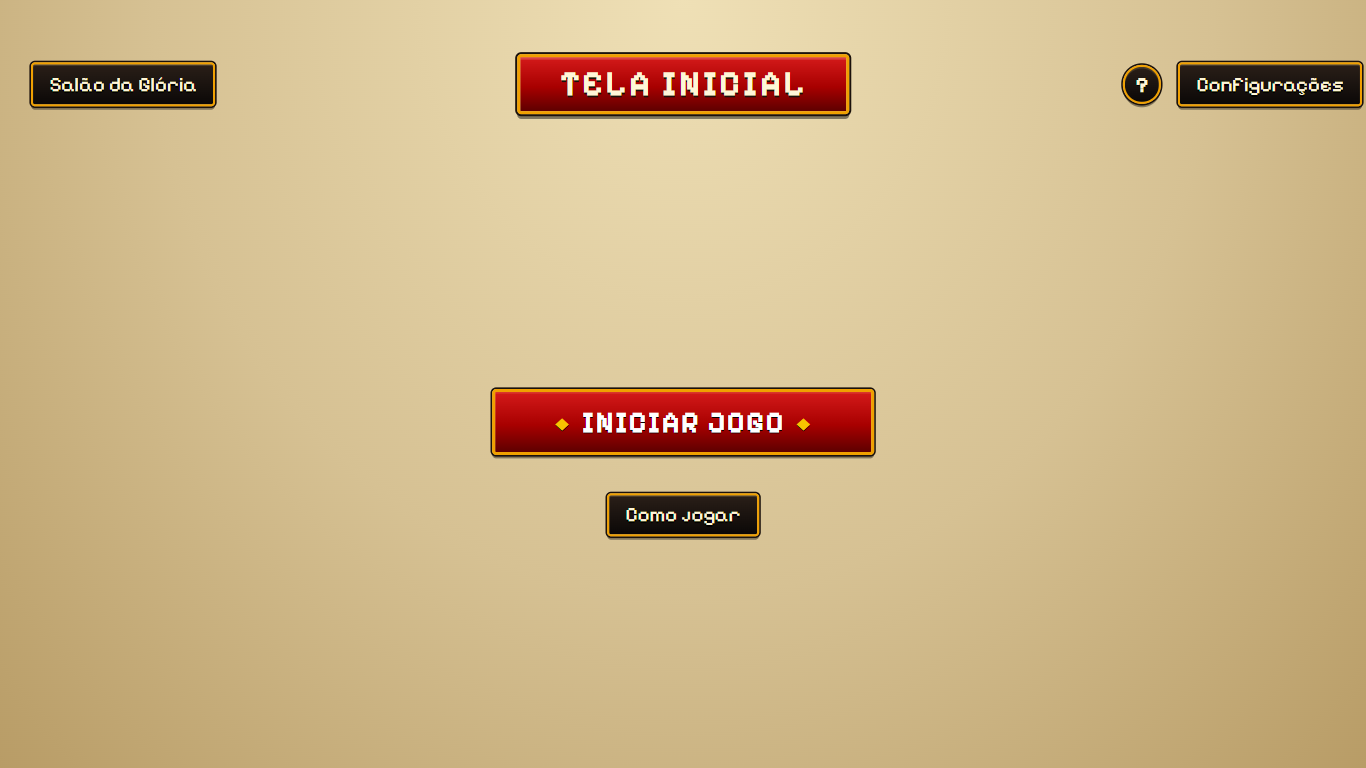
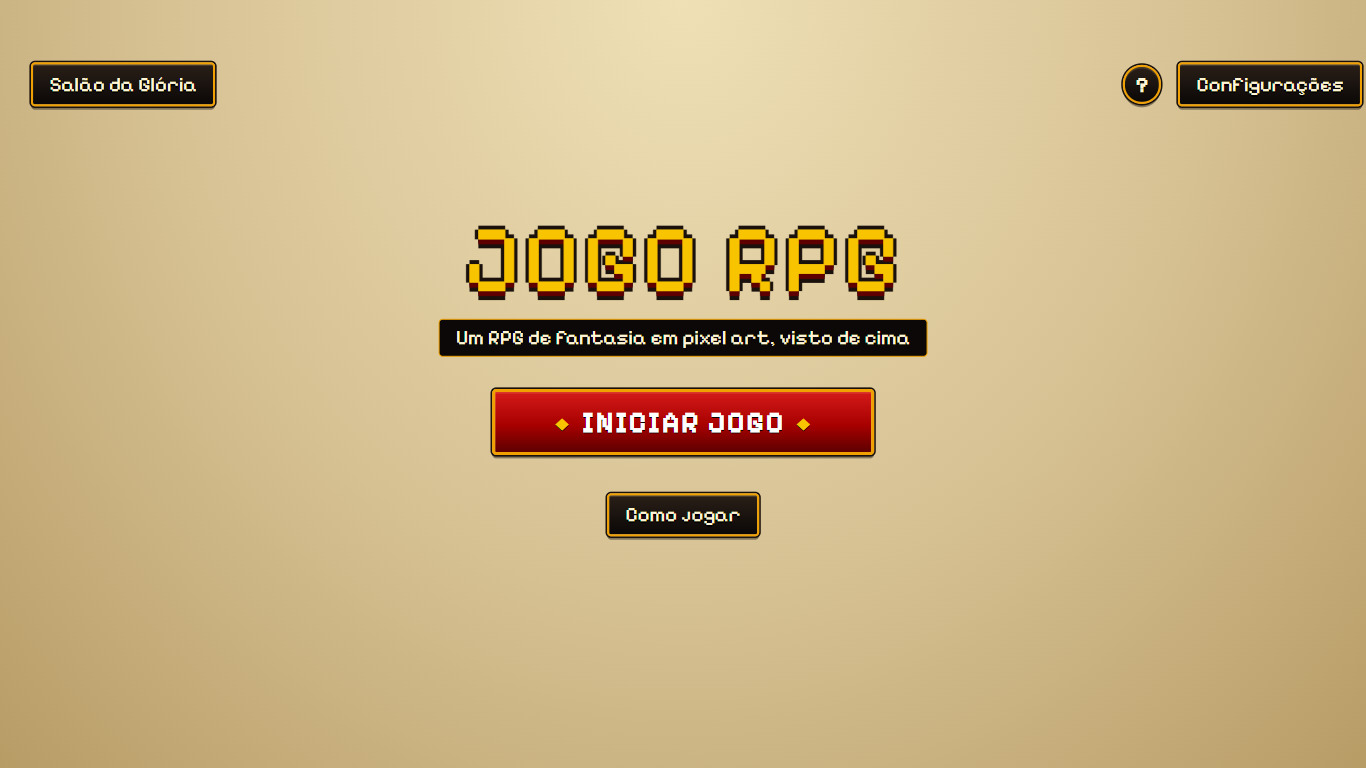
Parte 13b e 13c: o nome do jogo num lugar só (dados/jogo.js) na Tela inicial, no título da aba e no carregamento; README na raiz

Changed region(s): [[0.3075, 0.2812, 0.6764, 0.4688], [0.369, 0.0625, 0.6457, 0.1562]]

diff --git a/programacao/index.html b/programacao/index.html
@@ -4,7 +4,7 @@
     <meta charset="UTF-8" />
     <link rel="icon" type="image/svg+xml" href="/favicon.svg" />
     <meta name="viewport" content="width=device-width, initial-scale=1.0" />
-    <title>Jogo RPG</title>
+    <title>%NOME_DO_JOGO%</title>
     <!-- Tela de carregamento (ajustes de 14/10/2026): aparece na hora, antes do React, e some quando o jogo monta (o React
          troca o conteúdo do #root). Se demorar demais ou o código não chegar, mostra o que houve e "Tentar de novo". -->
     <style>
@@ -92,7 +92,7 @@
     <div id="root">
       <div class="carregando-o-site" id="carregando-o-site" role="status" aria-live="polite">
         <div>
-          <h1>Jogo RPG</h1>
+          <h1>%NOME_DO_JOGO%</h1>
           <div class="barra"><span></span></div>
           <p id="carregando-texto">Carregando o jogo...</p>
         </div>
@@ -105,7 +105,7 @@
           var tela = document.getElementById('carregando-o-site')
           if (!tela) return
           tela.innerHTML =
-            '<div><h1>Jogo RPG</h1><p>' +
+            '<div><h1>%NOME_DO_JOGO%</h1><p>' +
             texto +
             '</p><button type="button" onclick="location.reload()">Tentar de novo</button></div>'
         }

diff --git a/programacao/src/telas/acesso/TelaInicial.jsx b/programacao/src/telas/acesso/TelaInicial.jsx
@@ -1,6 +1,8 @@
 import Botao from '../../componentes/Botao.jsx'
 import Tela from '../../componentes/Tela.jsx'
+import { estiloPosicao } from '../../componentes/posicao.js'
 import { pedirTelaCheia } from '../../componentes/telaCheia.js'
+import { jogo } from '../../dados/jogo.js'
 import { posicoes } from '../../dados/posicoes.js'
 import { useJogo } from '../../estado/contexto.js'
 
@@ -10,7 +12,14 @@ export default function TelaInicial() {
   const { estado, acoes } = useJogo()
 
   return (
-    <Tela>
+    // O nome do jogo grande no lugar do título da tela (Parte 13: o professor pede a Tela inicial com o nome)
+    <Tela tituloOculto>
+      <div className="nome-do-jogo posicionado" style={estiloPosicao(pos.nome)}>
+        <p className="nome-do-jogo-titulo" role="heading" aria-level="2">
+          {jogo.nome}
+        </p>
+        <p className="nome-do-jogo-frase">{jogo.frase}</p>
+      </div>
       {/* A tela cheia entra neste clique (ajustes de 14/10; o navegador só deixa no momento de um clique) */}
       <Botao
         em={pos.iniciarJogo}

diff --git a/programacao/src/dados/jogo.test.js b/programacao/src/dados/jogo.test.js
@@ -1,0 +1,24 @@
+import { readFileSync } from 'node:fs'
+import { describe, expect, it } from 'vitest'
+import { jogo } from './jogo.js'
+
+const ler = (caminho) => readFileSync(new URL(caminho, import.meta.url), 'utf8')
+
+describe('o nome do jogo num lugar só (Parte 13)', () => {
+  it('o nome existe e é curto o bastante para a Tela inicial', () => {
+    expect(jogo.nome.length).toBeGreaterThan(0)
+    expect(jogo.nome.length).toBeLessThanOrEqual(20)
+  })
+
+  it('o index.html (título da aba e tela de carregamento) usa o nome de dados/jogo.js, sem o nome escrito à mão', () => {
+    const html = ler('../../index.html')
+    expect(html.match(/%NOME_DO_JOGO%/g)?.length).toBe(3)
+    expect(html).toContain('<title>%NOME_DO_JOGO%</title>')
+    expect(html).not.toContain(jogo.nome)
+    expect(ler('../../vite.config.js')).toContain("replaceAll('%NOME_DO_JOGO%', jogo.nome)")
+  })
+
+  it('a Tela inicial mostra o nome de dados/jogo.js', () => {
+    expect(ler('../telas/acesso/TelaInicial.jsx')).toContain('{jogo.nome}')
+  })
+})

diff --git a/programacao/src/estilo/identidade.css b/programacao/src/estilo/identidade.css
@@ -409,3 +409,38 @@ body {
 .carregando-caixa .botao {
   color: var(--texto-da-placa);
 }
+
+/* ---------- O nome do jogo na Tela inicial (Parte 13; o nome vem de dados/jogo.js) ---------- */
+.nome-do-jogo {
+  display: flex;
+  flex-direction: column;
+  align-items: center;
+  gap: 0.8cqw;
+  text-align: center;
+  pointer-events: none;
+}
+.nome-do-jogo-titulo {
+  margin: 0;
+  font-size: 7cqw;
+  line-height: 1;
+  letter-spacing: 0.25cqw;
+  text-transform: uppercase;
+  color: var(--ouro-claro);
+  text-shadow:
+    0 0.35cqw 0 var(--vermelho-escuro),
+    0.25cqw 0 0 var(--contorno),
+    -0.25cqw 0 0 var(--contorno),
+    0 0.25cqw 0 var(--contorno),
+    0 -0.25cqw 0 var(--contorno),
+    0 0.7cqw 0 var(--contorno);
+  white-space: nowrap;
+}
+.nome-do-jogo-frase {
+  margin: 0;
+  font-size: 1.5cqw;
+  color: var(--texto-da-placa);
+  background: var(--placa);
+  border: 0.14cqw solid var(--ouro);
+  border-radius: 0.3cqw;
+  padding: 0.4cqw 1.2cqw;
+}

diff --git a/programacao/vite.config.js b/programacao/vite.config.js
@@ -1,9 +1,11 @@
 import react from '@vitejs/plugin-react'
 import { defineConfig } from 'vite'
+import { jogo } from './src/dados/jogo.js'
 
 // https://vite.dev/config/
 export default defineConfig({
-  plugins: [react()],
+  // o nome do jogo (src/dados/jogo.js) no título da aba e na tela de carregamento do index.html (Parte 13)
+  plugins: [react(), { name: 'nome-do-jogo', transformIndexHtml: (html) => html.replaceAll('%NOME_DO_JOGO%', jogo.nome) }],
   build: {
     // O Phaser sozinho tem cerca de 1,4 MB e só carrega ao abrir a Partida (import dinâmico).
     // O limite fica um pouco acima disso para o aviso voltar se algo crescer demais.

diff --git a/programacao/src/dados/jogo.js b/programacao/src/dados/jogo.js
@@ -1,0 +1,8 @@
+// O NOME DO JOGO (Parte 13, 27/11/2026): o único lugar com o nome. O grupo ainda não decidiu: até lá, "Jogo RPG".
+// Para trocar, mude só "nome" (e a frase, se quiser). Ele aparece na Tela inicial (telas/acesso/TelaInicial.jsx), no
+// título da aba e na tela de carregamento do site (o index.html usa %NOME_DO_JOGO%, trocado pelo vite.config.js ao
+// montar o jogo). O README.md da raiz e o Conceito são texto: trocar lá também (o relatório da Parte 13 diz onde).
+export const jogo = {
+  nome: 'Jogo RPG',
+  frase: 'Um RPG de fantasia em pixel art, visto de cima',
+}

diff --git a/programacao/src/dados/posicoes.js b/programacao/src/dados/posicoes.js
@@ -20,6 +20,7 @@ export const posicoes = {
 
   // ---------- Acesso ----------
   telaInicial: {
+    nome: { x: 50, y: 37 }, // o nome do jogo, grande (Parte 13: dados/jogo.js), abaixo da dica da primeira visita
     iniciarJogo: { x: 50, y: 55, grande: true }, // o botão principal (vermelho e dourado, como o JOGAR)
     comoJogar: { x: 50, y: 67 },
   },

diff --git a/README.md b/README.md
@@ -1,0 +1,95 @@
+# Jogo RPG
+
+**Um RPG de fantasia em pixel art, visto de cima, para jogar no navegador do computador.** Você monta um grupo de até 5 heróis (Guerreiro, Mago, Tanque, Sacerdote e Arqueiro), controla o Líder, explora a Floresta, derrota monstros e o chefe Ogro e volta ao Reino com o ouro para comprar, forjar e evoluir o grupo.
+
+> O nome do jogo ainda vai ser escolhido pelo grupo; até lá, "Jogo RPG".
+
+**▶ Jogar agora: [jogo-rpg-six.vercel.app](https://jogo-rpg-six.vercel.app)** (computador, teclado e mouse)
+
+| A partida na Floresta | O Reino |
+|---|---|
+| ![A partida: o grupo de 5 heróis lutando com a matilha do Lobo Alfa na Floresta](documentacao/prototipos/UC32_partida_com_mobs.png) | ![O Reino com a Guilda, o Mercado, a Forja, a Mochila, as Árvores e o botão Jogar](documentacao/prototipos/UC26_reino.png) |
+
+## Como jogar
+
+- **Convidado ou conta:** na Tela inicial, clique em *Iniciar jogo*. Como convidado, o progresso fica só neste navegador. Com conta (e-mail, senha e apelido, com confirmação do e-mail), o progresso fica salvo no servidor e você aparece no ranking (Salão da Glória). A conta criada por um convidado leva o progresso dele.
+- **O ciclo:** Reino → *Jogar* → Mapa → Floresta → Caravana (onde começar) → Preparação (Líder e mochila) → partida → Resumo (ouro, XP, itens) → Reino.
+
+| Tecla | O que faz |
+|---|---|
+| W A S D | Andar |
+| Mouse e clique | Mirar e atacar (o Arqueiro segura o clique para puxar o arco) |
+| Espaço | Esquivar (só o Líder) |
+| 1, 2, 3 | Habilidades |
+| E | Pegar o item do chão; na mochila, usar no Líder (R: no aliado que mais precisa) |
+| Tab | Abrir a mochila (o jogo não pausa) |
+| Q | Voltar ao Reino (15 s fora de combate) |
+| F | Fugir (5 s, mesmo em combate, pagando parte do ouro) |
+| Esc | Fechar a janela; na partida, pausar |
+| M | Ligar e desligar o som |
+
+A Tela inicial tem o *Como jogar* completo, e toda tela tem um **?** que explica o que fazer nela.
+
+## Equipe e disciplinas
+
+- **Equipe:** Pablo Detoni, Lucas Garcia e Uener Peres.
+- **Disciplinas:** Análise e Projeto de Sistemas (TI23L) e Desenvolvimento Web 2.
+- **UTFPR**, câmpus Campo Mourão, 2026.
+
+## Tecnologias
+
+| Parte | Tecnologia |
+|---|---|
+| Interface (telas, menus, HUD) | [React](https://react.dev) com [Vite](https://vite.dev) |
+| A partida (o mapa, os heróis e os monstros) | [Phaser 4](https://phaser.io), desenhado no canvas |
+| Contas, saves na nuvem e ranking | [Supabase](https://supabase.com) (Postgres com RLS) |
+| Site publicado | [Vercel](https://vercel.com) |
+| Música e efeitos | Web Audio API do navegador (feitos em código, sem arquivos) |
+| Testes | [Vitest](https://vitest.dev) (regras do jogo) e roteiros que jogam num navegador escondido |
+
+## Onde está cada entrega
+
+| Entrega | Onde |
+|---|---|
+| Conceito do jogo (PDF) | [documentacao/ideias/01_Conceito_do_Jogo.pdf](documentacao/ideias/01_Conceito_do_Jogo.pdf) |
+| Diagrama de casos de uso | [documentacao/diagramas/02_Diagrama_Casos_de_Uso.png](documentacao/diagramas/02_Diagrama_Casos_de_Uso.png) |
+| Diagramas de atividades | [Acesso](documentacao/diagramas/03_Diagrama_Atividades_Acesso.png), [Partida](documentacao/diagramas/04_Diagrama_Atividades_Partida.png), [Guilda](documentacao/diagramas/05_Diagrama_Atividades_Guilda.png) e [Caravana](documentacao/diagramas/06_Diagrama_Atividades_Caravana.png) |
+| Protótipos (todas as telas, tema claro e escuro) | [documentacao/prototipos/](documentacao/prototipos/README.md) |
+| Requisitos funcionais e não funcionais | [documentacao/docAdicional/08_Requisitos.md](documentacao/docAdicional/08_Requisitos.md) |
+| Descrição dos casos de uso | [documentacao/docAdicional/06_Descricao_dos_Casos_de_Uso.md](documentacao/docAdicional/06_Descricao_dos_Casos_de_Uso.md) |
+| Histórias de usuário | [documentacao/docAdicional/07_Historias_de_Usuario.md](documentacao/docAdicional/07_Historias_de_Usuario.md) |
+| Matriz de rastreabilidade | [documentacao/docAdicional/09_Matriz_de_Rastreabilidade.md](documentacao/docAdicional/09_Matriz_de_Rastreabilidade.md) |
+| Toda a documentação (índice) | [documentacao/README.md](documentacao/README.md) |
+| O código | [programacao/](programacao/) (como ele está organizado: [Arquitetura do código](documentacao/Arquitetura_do_Codigo.md)) |
+
+## Rodar no computador
+
+Precisa do [Node.js](https://nodejs.org) **22.12 ou mais novo**.
+
+```bash
+cd programacao
+npm install
+npm run dev
+```
+
+Abra o endereço que aparecer (normalmente http://localhost:5173). Sem configurar nada, o jogo roda inteiro como convidado. Para as contas e o ranking, copie `programacao/.env.example` para `programacao/.env.local` e preencha com a URL e a chave **publicável** de um projeto do Supabase (o passo a passo, com os SQL, está em [documentacao/Supabase_passo_a_passo.md](documentacao/Supabase_passo_a_passo.md)):
+
+```bash
+VITE_SUPABASE_URL=https://<seu-projeto>.supabase.co
+VITE_SUPABASE_PUBLISHABLE_KEY=sb_publishable_...
+```
+
+O `.env.local` nunca vai para o GitHub, e a chave secreta do Supabase nunca entra no jogo.
+
+## Testes
+
+Dentro de `programacao/`:
+
+```bash
+npm test             # as regras do jogo (Vitest)
+npm run lint         # o padrão do código
+npm run build        # monta o site
+npm run testar:floresta   # um dos roteiros que jogam sozinhos num Edge escondido
+```
+
+Os outros roteiros (`testar:navegador`, `testar:reino`, `testar:camadas`, `testar:botoes`, `testar:som`, `testar:arte`, `testar:paredes`) estão no [package.json](programacao/package.json), e o registro de cada rodada fica em [testes/Registro.md](testes/Registro.md).
